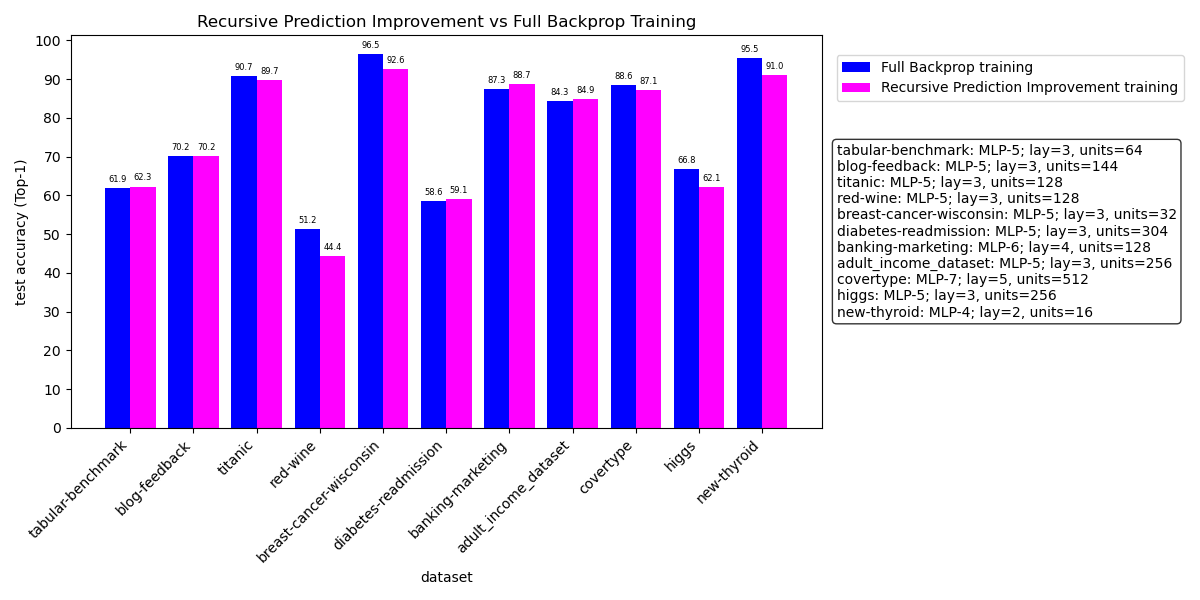
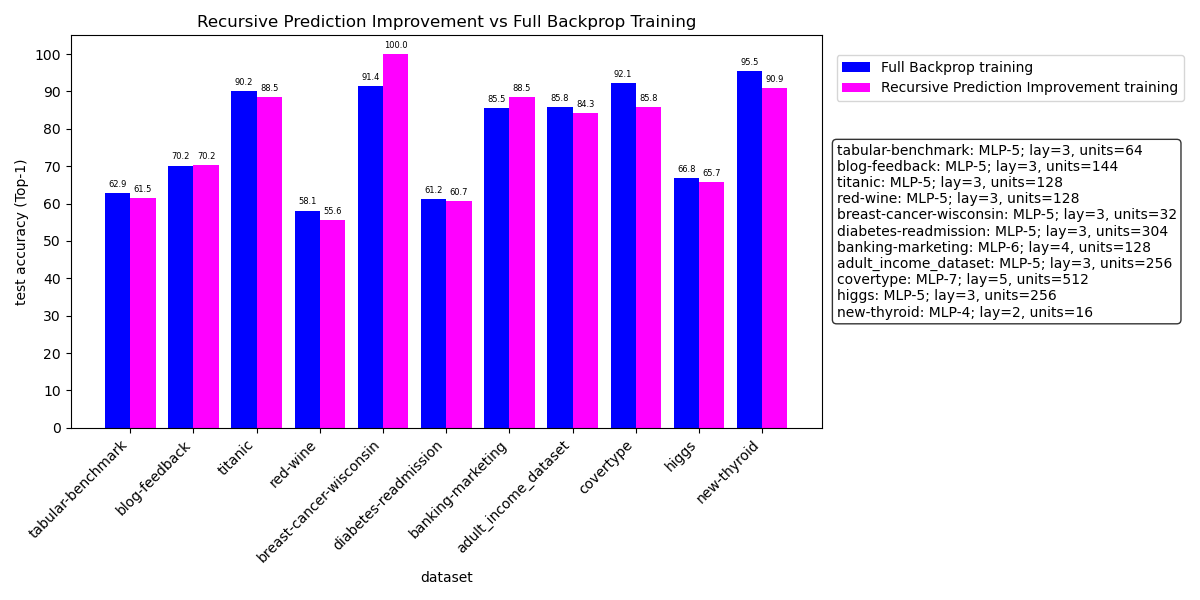
update RecursiveActionLayer to use single MLP layer - set recursiveActionLayers = 1

diff --git a/graph/RecursivePredictionImprovementVsBackpropTestAccuracy.py b/graph/RecursivePredictionImprovementVsBackpropTestAccuracy.py
@@ -7,8 +7,11 @@ def subset(arr, subsetMask):
 	
 graphedDatasets = [False, False, True, True, True, True, True, True, True, True, True, True, True] 	#tested datasets
 
-y1_values = [0.0, 0.0, 61.88, 70.22, 90.69, 51.25, 96.48, 58.59, 87.34, 84.35, 88.57, 66.85, 95.45]
-y2_values = [0.0, 0.0, 62.26, 70.19, 89.68, 44.37, 92.58, 59.12, 88.66, 84.93, 87.12, 62.11, 90.99]	
+y1_values = [95.82, 91.59, 62.86, 70.17, 90.15, 58.13, 91.41, 61.23, 85.54, 85.77, 92.14, 66.85, 95.45]		#ANN full backprop (from AEANNpt codebase)
+y2_values = [0.0, 0.0, 61.50, 70.19, 88.54, 55.62, 100.00, 60.68, 88.50, 84.27, 85.78, 65.72, 90.90]		#RPIANN recursiveActionLayers=1 + hiddenLayerSizeHigh + higgs batchSize=4096
+#y1_values = [0.0, 0.0, 61.88, 70.22, 90.69, 51.25, 96.48, 58.59, 87.34, 84.35, 88.57, , , ]	#RPIANN recursiveActionLayers=2 with full backprop
+#y2_values = [0.0, 0.0, 62.26, 70.19, 89.68, 44.37, 92.58, 59.12, 88.66, 84.93, 87.12, 62.11, 90.99]		#RPIANN recursiveActionLayers=2
+
 #covertype with trainNumberOfEpochsHigh=False
 
 group_labels = ["CIFAR-10 Resnet-18", "CIFAR-10 Conv-9", "tabular-benchmark", "blog-feedback", "titanic", "red-wine", "breast-cancer-wisconsin", "diabetes-readmission", "banking-marketing", "adult_income_dataset", "covertype", "higgs", "new-thyroid"]

diff --git a/RPIANNpt/RPIANNpt_RPIANNmodel.py b/RPIANNpt/RPIANNpt_RPIANNmodel.py
@@ -41,15 +41,22 @@ class RPIANNconfig():
 		self.numberOfClassSamples = numberOfClassSamples
 
 class RecursiveActionLayer(nn.Module):
-	def __init__(self, embedding_dim, hidden_dim=None, action_scale=0.25):
+	def __init__(self, embedding_dim, action_scale=0.25):
 		super().__init__()
-		if(hidden_dim is None):
-			hidden_dim = embedding_dim * 2
-		self.action = nn.Sequential(
-			nn.Linear(embedding_dim * 2, hidden_dim),
-			nn.ReLU(),
-			nn.Linear(hidden_dim, embedding_dim)
-		)
+		if(recursiveActionLayers == 1):
+			self.action = nn.Sequential(
+				nn.Linear(embedding_dim * 2, embedding_dim),
+				nn.ReLU(),
+			)
+		elif(recursiveActionLayers == 2):
+			hidden_dim = embedding_dim * recursiveActionLayerHiddenDimMultiplier
+			self.action = nn.Sequential(
+				nn.Linear(embedding_dim * 2, hidden_dim),
+				nn.ReLU(),
+				nn.Linear(hidden_dim, embedding_dim)
+			)
+		else:
+			printe("invalid number recursiveActionLayers")
 		self.action_scale = action_scale
 
 	def forward(self, x_embed, y_hat):

diff --git a/RPIANNpt/RPIANNpt_RPIANN_globalDefs.py b/RPIANNpt/RPIANNpt_RPIANN_globalDefs.py
@@ -21,6 +21,10 @@ printRPIANNmodelProperties = True
 
 trainLocal = True	#default: True #disable for debug/benchmark against standard full layer backprop
 
+recursiveActionLayers = 1	#default: 1	#or 2
+if(recursiveActionLayers > 1):
+	recursiveActionLayerHiddenDimMultiplier = 2
+
 #dataset parameters:
 useImageDataset = False 	#not currently supported	#use CIFAR-10 dataset with CNN
 if(useImageDataset):
@@ -62,6 +66,7 @@ elif(useImageDataset):
 
 #training epoch parameters:
 trainNumberOfEpochsHigh = False	#use ~4x more epochs to train
+hiddenLayerSizeHigh = True	#use ~4x more hidden neurons (approx equalise number of parameters with ANN)	#large projection from input/output
 
 #data storage parameters:
 workingDrive = '/large/source/ANNpython/RPIANNpt/'

diff --git a/RPIANNpt/ANNpt_globalDefs.py b/RPIANNpt/ANNpt_globalDefs.py
@@ -313,7 +313,7 @@ if(useTabularDataset):
 		numberOfLayers = 4
 		#numberOfLayers = 2
 		hiddenLayerSize = 256	#default: 256
-		batchSize = 64		#4096	#default: 64
+		batchSize = 4096		#orig: 64	#high batch size applied to speed up training
 		trainNumberOfEpochs = 10
 		datasetLocalFileOptimise = False	#default: False
 	elif(datasetName == 'new-thyroid'):
@@ -382,7 +382,9 @@ if(useImageDataset):
 
 if(trainNumberOfEpochsHigh):
 	trainNumberOfEpochs = trainNumberOfEpochs*4
-	
+if(hiddenLayerSizeHigh):
+	hiddenLayerSize = hiddenLayerSize*4
+		
 if(debugSmallBatchSize):
 	batchSize = 10
 if(debugSmallNetwork):

diff --git a/README.md b/README.md
@@ -39,3 +39,9 @@ python ANNpt_main.py
 
 ![RecursivePredictionImprovementVsBackpropTestAccuracy-SMALL.png](https://github.com/bairesearch/RPIANNpt/blob/main/graph/RecursivePredictionImprovementVsBackpropTestAccuracy-SMALL.png?raw=true)
 
+RPIANNpt tests conducted with settings;
+```
+recursion_steps = "numberOfLayers" (lay+1)
+recursiveActionLayers = 1 (MLP sublayers per recursive step)
+hiddenLayerSizeHigh = True (units*4)
+```
